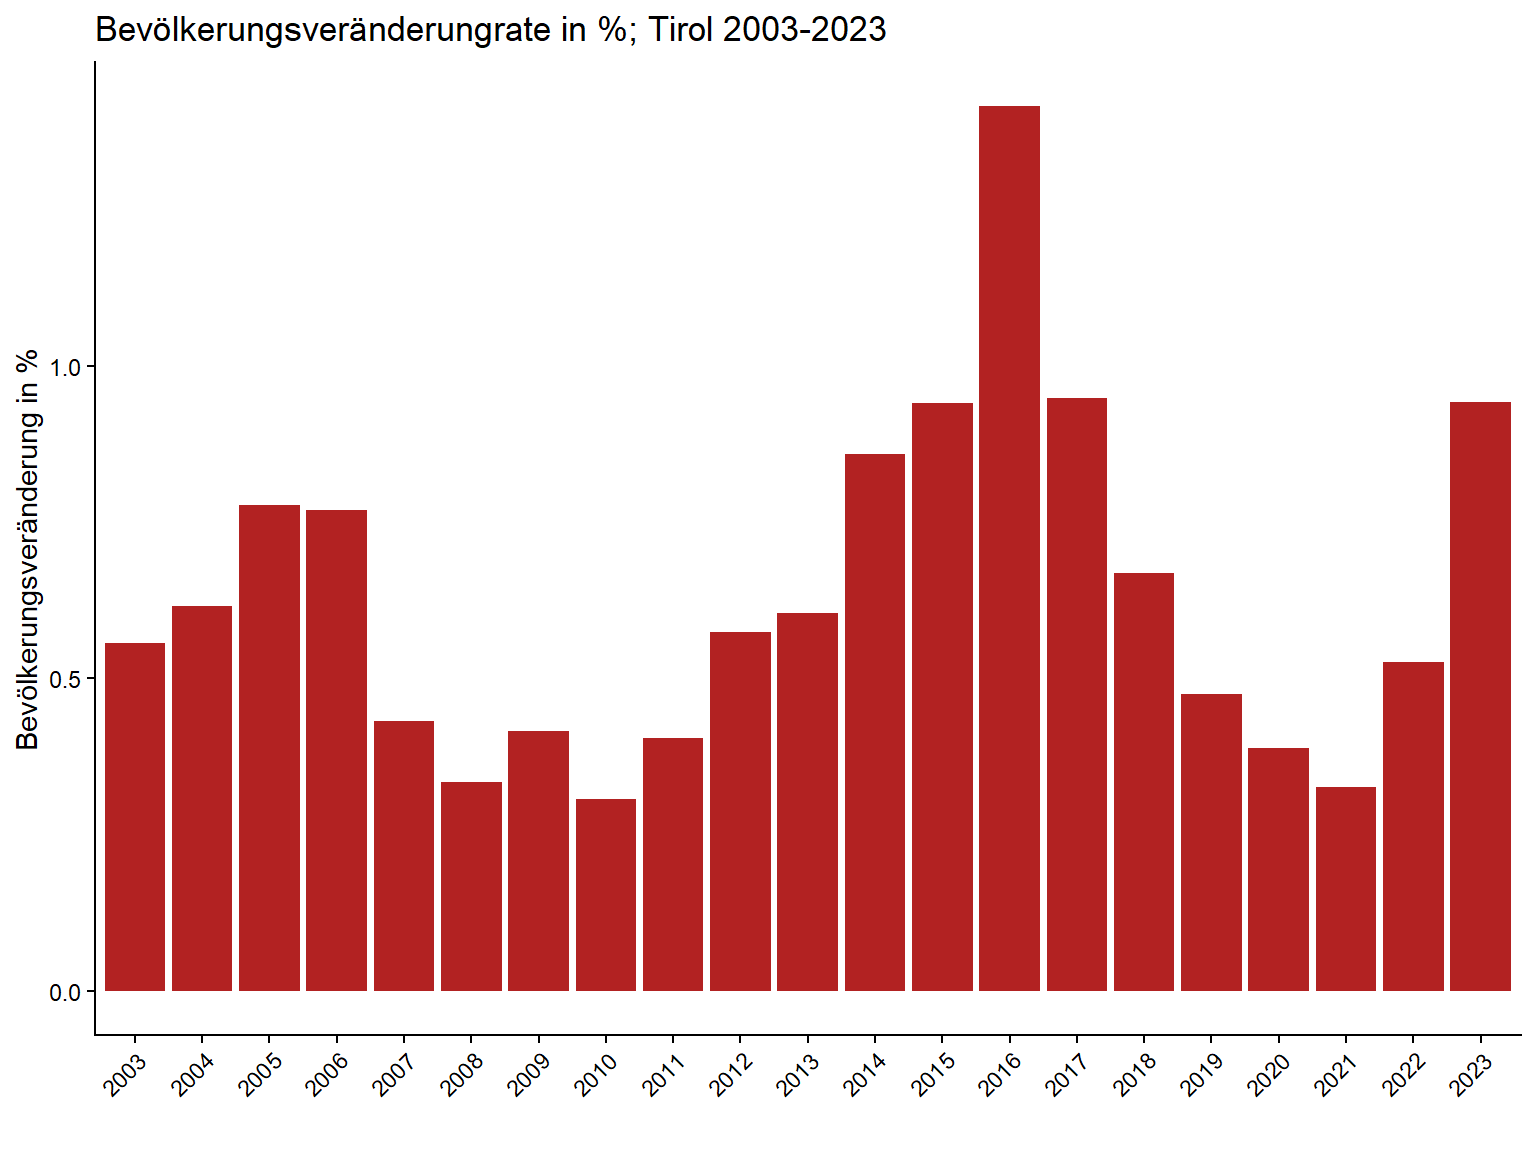
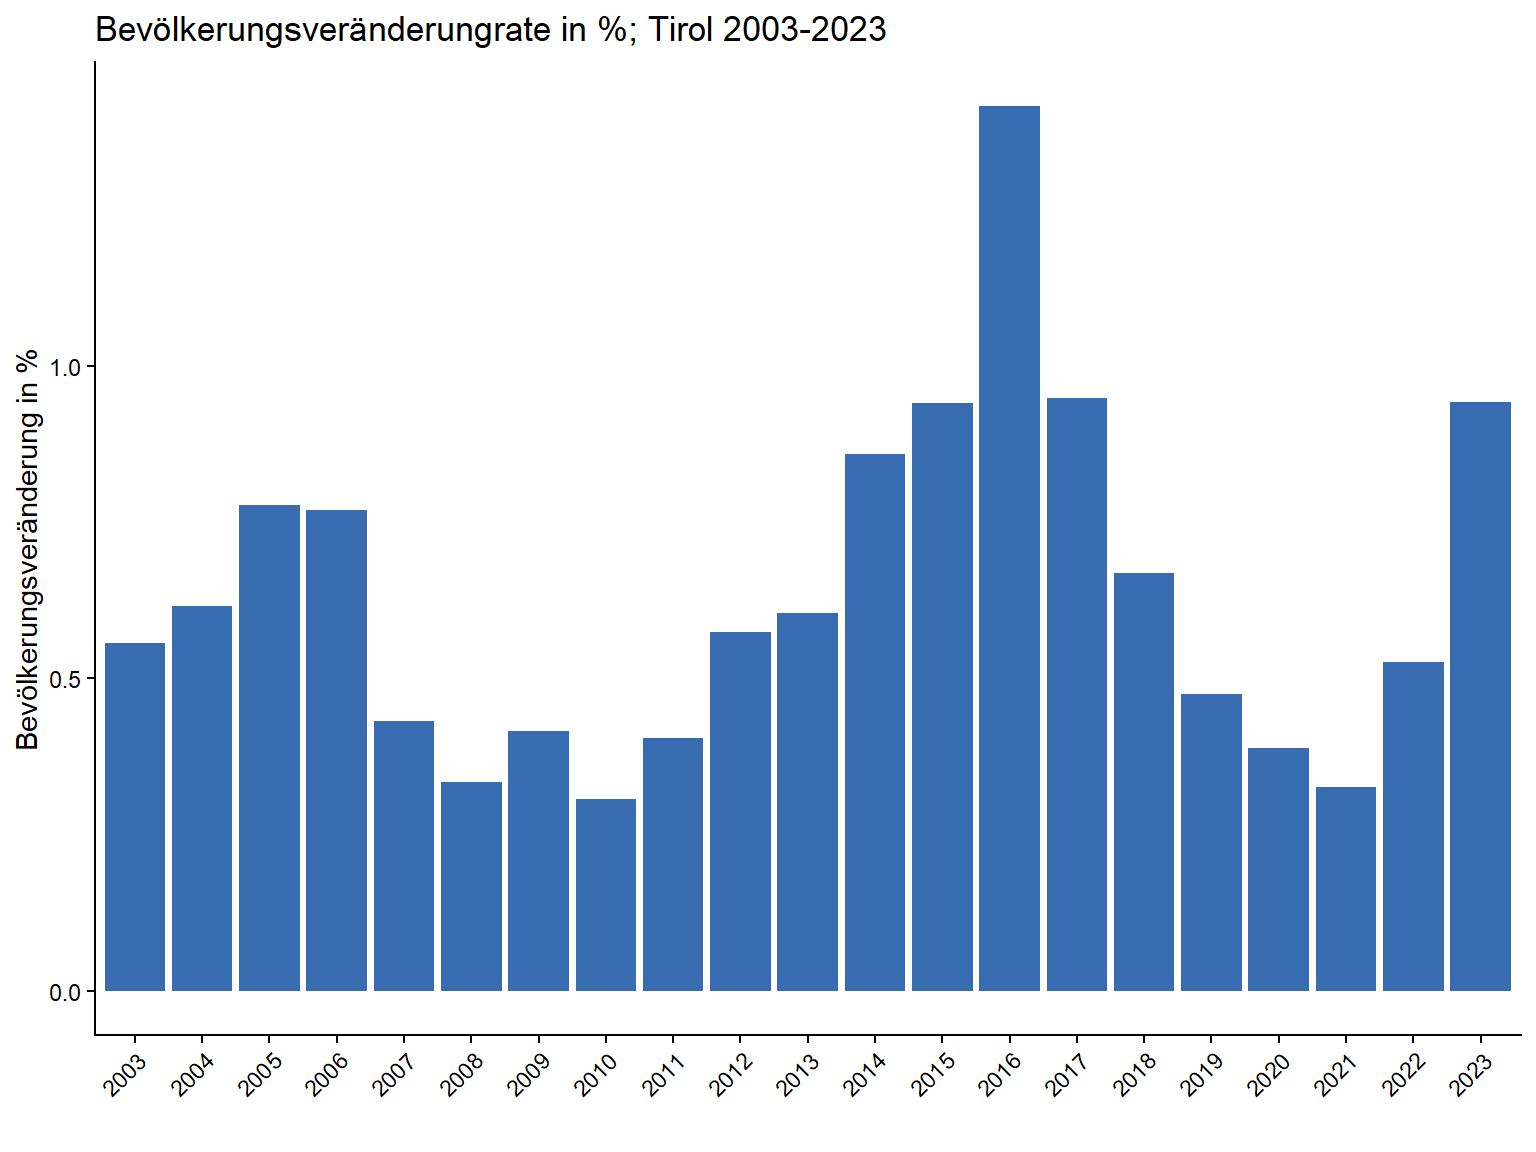
update

Changed region(s): [[0.0625, 0.0938, 1.0, 0.875]]

diff --git a/docs/02_data_manipulation.html b/docs/02_data_manipulation.html
@@ -536,7 +536,7 @@ window.Quarto = {
 </div>
 <div class="code-copy-outer-scaffold"><div class="sourceCode cell-code" id="cb29"><pre class="sourceCode r code-with-copy"><code class="sourceCode r"><span id="cb29-1"><a href="#cb29-1" aria-hidden="true" tabindex="-1"></a><span class="co"># mit "fill" können wir die Farbe der Balken ändern (auch mit Farbcodes möglich!)</span></span>
 <span id="cb29-2"><a href="#cb29-2" aria-hidden="true" tabindex="-1"></a><span class="fu">ggplot</span>(<span class="at">data =</span> pop_tirol, <span class="fu">aes</span>(<span class="at">x =</span> jahr, <span class="at">y =</span> pop_rate))<span class="sc">+</span> </span>
-<span id="cb29-3"><a href="#cb29-3" aria-hidden="true" tabindex="-1"></a>  <span class="fu">geom_col</span>(<span class="at">fill =</span> <span class="st">"dodgerblue"</span>)<span class="sc">+</span></span>
+<span id="cb29-3"><a href="#cb29-3" aria-hidden="true" tabindex="-1"></a>  <span class="fu">geom_col</span>(<span class="at">fill =</span> <span class="st">"#F0027F"</span>)<span class="sc">+</span></span>
 <span id="cb29-4"><a href="#cb29-4" aria-hidden="true" tabindex="-1"></a>  <span class="fu">theme_classic</span>()<span class="sc">+</span></span>
 <span id="cb29-5"><a href="#cb29-5" aria-hidden="true" tabindex="-1"></a>  <span class="fu">labs</span>(<span class="at">x =</span> <span class="st">" "</span>, <span class="at">y =</span> <span class="st">"Bevölkerungsveränderung in %"</span>)</span></code></pre></div><button title="Copy to Clipboard" class="code-copy-button"><i class="bi"></i></button></div>
 <div class="cell-output-display">
@@ -549,7 +549,7 @@ window.Quarto = {
 <div class="code-copy-outer-scaffold"><div class="sourceCode cell-code" id="cb30"><pre class="sourceCode r code-with-copy"><code class="sourceCode r"><span id="cb30-1"><a href="#cb30-1" aria-hidden="true" tabindex="-1"></a><span class="co"># Mittels zb. as.factor() können wir in ggplot den Datentyp angeben, ohne den ursprünglichen Dataframe zu ändern.</span></span>
 <span id="cb30-2"><a href="#cb30-2" aria-hidden="true" tabindex="-1"></a><span class="co"># Mit theme() können wir jedes Element des Diagramms ansteuern und verändern</span></span>
 <span id="cb30-3"><a href="#cb30-3" aria-hidden="true" tabindex="-1"></a><span class="fu">ggplot</span>(<span class="at">data =</span> pop_tirol, <span class="fu">aes</span>(<span class="at">x =</span> <span class="fu">as.factor</span>(jahr), <span class="at">y =</span> pop_rate))<span class="sc">+</span> </span>
-<span id="cb30-4"><a href="#cb30-4" aria-hidden="true" tabindex="-1"></a>  <span class="fu">geom_col</span>(<span class="at">fill =</span> <span class="st">"firebrick"</span>)<span class="sc">+</span></span>
+<span id="cb30-4"><a href="#cb30-4" aria-hidden="true" tabindex="-1"></a>  <span class="fu">geom_col</span>(<span class="at">fill =</span> <span class="st">"#386CB0"</span>)<span class="sc">+</span></span>
 <span id="cb30-5"><a href="#cb30-5" aria-hidden="true" tabindex="-1"></a>  <span class="fu">theme_classic</span>()<span class="sc">+</span></span>
 <span id="cb30-6"><a href="#cb30-6" aria-hidden="true" tabindex="-1"></a>  <span class="fu">theme</span>(<span class="at">axis.text.x =</span> <span class="fu">element_text</span>(<span class="at">angle =</span> <span class="dv">45</span>, <span class="at">hjust =</span> <span class="dv">1</span>))<span class="sc">+</span></span>
 <span id="cb30-7"><a href="#cb30-7" aria-hidden="true" tabindex="-1"></a>  <span class="fu">labs</span>(<span class="at">x =</span> <span class="st">" "</span>, <span class="at">y =</span> <span class="st">"Bevölkerungsveränderung in %"</span>, <span class="at">title =</span> <span class="st">"Bevölkerungsveränderungrate in %; Tirol 2003-2023"</span>)</span></code></pre></div><button title="Copy to Clipboard" class="code-copy-button"><i class="bi"></i></button></div>
@@ -646,10 +646,10 @@ window.Quarto = {
 <span id="cb37-2"><a href="#cb37-2" aria-hidden="true" tabindex="-1"></a>  <span class="fu">geom_line</span>(<span class="at">linewidth =</span> <span class="dv">1</span>)<span class="sc">+</span></span>
 <span id="cb37-3"><a href="#cb37-3" aria-hidden="true" tabindex="-1"></a>  <span class="fu">theme_classic</span>()<span class="sc">+</span></span>
 <span id="cb37-4"><a href="#cb37-4" aria-hidden="true" tabindex="-1"></a>  <span class="fu">scale_color_manual</span>(</span>
-<span id="cb37-5"><a href="#cb37-5" aria-hidden="true" tabindex="-1"></a>  <span class="at">values =</span> <span class="fu">c</span>(<span class="st">"au_rate"</span> <span class="ot">=</span> <span class="st">"dodgerblue"</span>,  </span>
-<span id="cb37-6"><a href="#cb37-6" aria-hidden="true" tabindex="-1"></a>             <span class="st">"bi_rate"</span> <span class="ot">=</span> <span class="st">"firebrick"</span>,   </span>
-<span id="cb37-7"><a href="#cb37-7" aria-hidden="true" tabindex="-1"></a>             <span class="st">"mig_rate"</span> <span class="ot">=</span> <span class="st">"forestgreen"</span>,</span>
-<span id="cb37-8"><a href="#cb37-8" aria-hidden="true" tabindex="-1"></a>             <span class="st">"nat_rate"</span> <span class="ot">=</span> <span class="st">"magenta"</span>),</span>
+<span id="cb37-5"><a href="#cb37-5" aria-hidden="true" tabindex="-1"></a>  <span class="at">values =</span> <span class="fu">c</span>(<span class="st">"au_rate"</span> <span class="ot">=</span> <span class="st">"#386CB0"</span>,  </span>
+<span id="cb37-6"><a href="#cb37-6" aria-hidden="true" tabindex="-1"></a>             <span class="st">"bi_rate"</span> <span class="ot">=</span> <span class="st">"#F0027F"</span>,   </span>
+<span id="cb37-7"><a href="#cb37-7" aria-hidden="true" tabindex="-1"></a>             <span class="st">"mig_rate"</span> <span class="ot">=</span> <span class="st">"#BF5B17"</span>,</span>
+<span id="cb37-8"><a href="#cb37-8" aria-hidden="true" tabindex="-1"></a>             <span class="st">"nat_rate"</span> <span class="ot">=</span> <span class="st">"#7FC97F"</span>),</span>
 <span id="cb37-9"><a href="#cb37-9" aria-hidden="true" tabindex="-1"></a>  <span class="at">labels =</span> <span class="fu">c</span>(<span class="st">"Aussenwanderungsrate"</span>, <span class="st">"Binnenwanderungsrate"</span>, <span class="st">"Gesamtwanderungsrate"</span>, <span class="st">"Natürliche Bevölkerungsveränderung"</span>)</span>
 <span id="cb37-10"><a href="#cb37-10" aria-hidden="true" tabindex="-1"></a>)<span class="sc">+</span></span>
 <span id="cb37-11"><a href="#cb37-11" aria-hidden="true" tabindex="-1"></a>  <span class="fu">geom_hline</span>(<span class="at">yintercept =</span> <span class="dv">0</span>, <span class="at">col =</span> <span class="st">"black"</span>, <span class="at">linetype =</span> <span class="st">"dashed"</span>)<span class="sc">+</span></span>
@@ -666,10 +666,10 @@ window.Quarto = {
 <span id="cb38-2"><a href="#cb38-2" aria-hidden="true" tabindex="-1"></a>  <span class="fu">geom_smooth</span>(<span class="at">linewidth =</span> <span class="dv">1</span>, <span class="at">se=</span> F, <span class="at">span =</span> <span class="fl">0.3</span>)<span class="sc">+</span></span>
 <span id="cb38-3"><a href="#cb38-3" aria-hidden="true" tabindex="-1"></a>  <span class="fu">theme_classic</span>()<span class="sc">+</span></span>
 <span id="cb38-4"><a href="#cb38-4" aria-hidden="true" tabindex="-1"></a>  <span class="fu">scale_color_manual</span>(</span>
-<span id="cb38-5"><a href="#cb38-5" aria-hidden="true" tabindex="-1"></a>  <span class="at">values =</span> <span class="fu">c</span>(<span class="st">"au_rate"</span> <span class="ot">=</span> <span class="st">"dodgerblue"</span>,  </span>
-<span id="cb38-6"><a href="#cb38-6" aria-hidden="true" tabindex="-1"></a>             <span class="st">"bi_rate"</span> <span class="ot">=</span> <span class="st">"firebrick"</span>,   </span>
-<span id="cb38-7"><a href="#cb38-7" aria-hidden="true" tabindex="-1"></a>             <span class="st">"mig_rate"</span> <span class="ot">=</span> <span class="st">"forestgreen"</span>,</span>
-<span id="cb38-8"><a href="#cb38-8" aria-hidden="true" tabindex="-1"></a>             <span class="st">"nat_rate"</span> <span class="ot">=</span> <span class="st">"magenta"</span>),</span>
+<span id="cb38-5"><a href="#cb38-5" aria-hidden="true" tabindex="-1"></a>  <span class="at">values =</span> <span class="fu">c</span>(<span class="st">"au_rate"</span> <span class="ot">=</span> <span class="st">"#386CB0"</span>,  </span>
+<span id="cb38-6"><a href="#cb38-6" aria-hidden="true" tabindex="-1"></a>             <span class="st">"bi_rate"</span> <span class="ot">=</span> <span class="st">"#F0027F"</span>,   </span>
+<span id="cb38-7"><a href="#cb38-7" aria-hidden="true" tabindex="-1"></a>             <span class="st">"mig_rate"</span> <span class="ot">=</span> <span class="st">"#BF5B17"</span>,</span>
+<span id="cb38-8"><a href="#cb38-8" aria-hidden="true" tabindex="-1"></a>             <span class="st">"nat_rate"</span> <span class="ot">=</span> <span class="st">"#7FC97F"</span>),</span>
 <span id="cb38-9"><a href="#cb38-9" aria-hidden="true" tabindex="-1"></a>  <span class="at">labels =</span> <span class="fu">c</span>(<span class="st">"Aussenwanderungsrate"</span>, <span class="st">"Binnenwanderungsrate"</span>, <span class="st">"Gesamtwanderungsrate"</span>, <span class="st">"Natürliche Bevölkerungsveränderung"</span>)</span>
 <span id="cb38-10"><a href="#cb38-10" aria-hidden="true" tabindex="-1"></a>)<span class="sc">+</span></span>
 <span id="cb38-11"><a href="#cb38-11" aria-hidden="true" tabindex="-1"></a>  <span class="fu">geom_hline</span>(<span class="at">yintercept =</span> <span class="dv">0</span>, <span class="at">col =</span> <span class="st">"black"</span>, <span class="at">linetype =</span> <span class="st">"dashed"</span>)<span class="sc">+</span></span>
@@ -686,10 +686,10 @@ window.Quarto = {
 <span id="cb39-2"><a href="#cb39-2" aria-hidden="true" tabindex="-1"></a>  <span class="fu">geom_col</span>()<span class="sc">+</span></span>
 <span id="cb39-3"><a href="#cb39-3" aria-hidden="true" tabindex="-1"></a>  <span class="fu">theme_classic</span>()<span class="sc">+</span></span>
 <span id="cb39-4"><a href="#cb39-4" aria-hidden="true" tabindex="-1"></a>  <span class="fu">scale_fill_manual</span>(</span>
-<span id="cb39-5"><a href="#cb39-5" aria-hidden="true" tabindex="-1"></a>  <span class="at">values =</span> <span class="fu">c</span>(<span class="st">"au_rate"</span> <span class="ot">=</span> <span class="st">"dodgerblue"</span>,  </span>
-<span id="cb39-6"><a href="#cb39-6" aria-hidden="true" tabindex="-1"></a>             <span class="st">"bi_rate"</span> <span class="ot">=</span> <span class="st">"firebrick"</span>,   </span>
-<span id="cb39-7"><a href="#cb39-7" aria-hidden="true" tabindex="-1"></a>             <span class="st">"mig_rate"</span> <span class="ot">=</span> <span class="st">"forestgreen"</span>,</span>
-<span id="cb39-8"><a href="#cb39-8" aria-hidden="true" tabindex="-1"></a>             <span class="st">"nat_rate"</span> <span class="ot">=</span> <span class="st">"magenta"</span>),</span>
+<span id="cb39-5"><a href="#cb39-5" aria-hidden="true" tabindex="-1"></a>  <span class="at">values =</span> <span class="fu">c</span>(<span class="st">"au_rate"</span> <span class="ot">=</span> <span class="st">"#386CB0"</span>,  </span>
+<span id="cb39-6"><a href="#cb39-6" aria-hidden="true" tabindex="-1"></a>             <span class="st">"bi_rate"</span> <span class="ot">=</span> <span class="st">"#F0027F"</span>,   </span>
+<span id="cb39-7"><a href="#cb39-7" aria-hidden="true" tabindex="-1"></a>             <span class="st">"mig_rate"</span> <span class="ot">=</span> <span class="st">"#BF5B17"</span>,</span>
+<span id="cb39-8"><a href="#cb39-8" aria-hidden="true" tabindex="-1"></a>             <span class="st">"nat_rate"</span> <span class="ot">=</span> <span class="st">"#7FC97F"</span>),</span>
 <span id="cb39-9"><a href="#cb39-9" aria-hidden="true" tabindex="-1"></a>  <span class="at">labels =</span> <span class="fu">c</span>(<span class="st">"Aussenwanderungsrate"</span>, <span class="st">"Binnenwanderungsrate"</span>, <span class="st">"Gesamtwanderungsrate"</span>, <span class="st">"Natürliche Bevölkerungsveränderung"</span>)</span>
 <span id="cb39-10"><a href="#cb39-10" aria-hidden="true" tabindex="-1"></a>)<span class="sc">+</span></span>
 <span id="cb39-11"><a href="#cb39-11" aria-hidden="true" tabindex="-1"></a>  <span class="fu">geom_hline</span>(<span class="at">yintercept =</span> <span class="dv">0</span>, <span class="at">col =</span> <span class="st">"black"</span>, <span class="at">linetype =</span> <span class="st">"dashed"</span>)<span class="sc">+</span></span>
@@ -706,10 +706,10 @@ window.Quarto = {
 <span id="cb40-2"><a href="#cb40-2" aria-hidden="true" tabindex="-1"></a>  <span class="fu">geom_col</span>(<span class="at">position =</span> <span class="st">"dodge"</span>)<span class="sc">+</span></span>
 <span id="cb40-3"><a href="#cb40-3" aria-hidden="true" tabindex="-1"></a>  <span class="fu">theme_classic</span>()<span class="sc">+</span></span>
 <span id="cb40-4"><a href="#cb40-4" aria-hidden="true" tabindex="-1"></a>  <span class="fu">scale_fill_manual</span>(</span>
-<span id="cb40-5"><a href="#cb40-5" aria-hidden="true" tabindex="-1"></a>  <span class="at">values =</span> <span class="fu">c</span>(<span class="st">"au_rate"</span> <span class="ot">=</span> <span class="st">"dodgerblue"</span>,  </span>
-<span id="cb40-6"><a href="#cb40-6" aria-hidden="true" tabindex="-1"></a>             <span class="st">"bi_rate"</span> <span class="ot">=</span> <span class="st">"firebrick"</span>,   </span>
-<span id="cb40-7"><a href="#cb40-7" aria-hidden="true" tabindex="-1"></a>             <span class="st">"mig_rate"</span> <span class="ot">=</span> <span class="st">"forestgreen"</span>,</span>
-<span id="cb40-8"><a href="#cb40-8" aria-hidden="true" tabindex="-1"></a>             <span class="st">"nat_rate"</span> <span class="ot">=</span> <span class="st">"magenta"</span>),</span>
+<span id="cb40-5"><a href="#cb40-5" aria-hidden="true" tabindex="-1"></a>  <span class="at">values =</span> <span class="fu">c</span>(<span class="st">"au_rate"</span> <span class="ot">=</span> <span class="st">"#386CB0"</span>,  </span>
+<span id="cb40-6"><a href="#cb40-6" aria-hidden="true" tabindex="-1"></a>             <span class="st">"bi_rate"</span> <span class="ot">=</span> <span class="st">"#F0027F"</span>,   </span>
+<span id="cb40-7"><a href="#cb40-7" aria-hidden="true" tabindex="-1"></a>             <span class="st">"mig_rate"</span> <span class="ot">=</span> <span class="st">"#BF5B17"</span>,</span>
+<span id="cb40-8"><a href="#cb40-8" aria-hidden="true" tabindex="-1"></a>             <span class="st">"nat_rate"</span> <span class="ot">=</span> <span class="st">"#7FC97F"</span>),</span>
 <span id="cb40-9"><a href="#cb40-9" aria-hidden="true" tabindex="-1"></a>  <span class="at">labels =</span> <span class="fu">c</span>(<span class="st">"Aussenwanderungsrate"</span>, <span class="st">"Binnenwanderungsrate"</span>, <span class="st">"Gesamtwanderungsrate"</span>, <span class="st">"Natürliche Bevölkerungsveränderung"</span>)</span>
 <span id="cb40-10"><a href="#cb40-10" aria-hidden="true" tabindex="-1"></a>)<span class="sc">+</span></span>
 <span id="cb40-11"><a href="#cb40-11" aria-hidden="true" tabindex="-1"></a>  <span class="fu">geom_hline</span>(<span class="at">yintercept =</span> <span class="dv">0</span>, <span class="at">col =</span> <span class="st">"black"</span>, <span class="at">linetype =</span> <span class="st">"dashed"</span>)<span class="sc">+</span></span>
@@ -730,15 +730,15 @@ window.Quarto = {
 <span id="cb41-3"><a href="#cb41-3" aria-hidden="true" tabindex="-1"></a>  <span class="fu">geom_line</span>()<span class="sc">+</span></span>
 <span id="cb41-4"><a href="#cb41-4" aria-hidden="true" tabindex="-1"></a>  <span class="co">#theme_classic()+</span></span>
 <span id="cb41-5"><a href="#cb41-5" aria-hidden="true" tabindex="-1"></a>  <span class="fu">scale_color_manual</span>(</span>
-<span id="cb41-6"><a href="#cb41-6" aria-hidden="true" tabindex="-1"></a>    <span class="at">values =</span> <span class="fu">c</span>(<span class="st">"au_rate"</span> <span class="ot">=</span> <span class="st">"dodgerblue"</span>,  </span>
-<span id="cb41-7"><a href="#cb41-7" aria-hidden="true" tabindex="-1"></a>               <span class="st">"bi_rate"</span> <span class="ot">=</span> <span class="st">"firebrick"</span>,</span>
-<span id="cb41-8"><a href="#cb41-8" aria-hidden="true" tabindex="-1"></a>               <span class="st">"nat_rate"</span> <span class="ot">=</span> <span class="st">"magenta"</span>),</span>
+<span id="cb41-6"><a href="#cb41-6" aria-hidden="true" tabindex="-1"></a>    <span class="at">values =</span> <span class="fu">c</span>(<span class="st">"au_rate"</span> <span class="ot">=</span> <span class="st">"#386CB0"</span>,  </span>
+<span id="cb41-7"><a href="#cb41-7" aria-hidden="true" tabindex="-1"></a>               <span class="st">"bi_rate"</span> <span class="ot">=</span> <span class="st">"#F0027F"</span>,</span>
+<span id="cb41-8"><a href="#cb41-8" aria-hidden="true" tabindex="-1"></a>               <span class="st">"nat_rate"</span> <span class="ot">=</span> <span class="st">"#7FC97F"</span>),</span>
 <span id="cb41-9"><a href="#cb41-9" aria-hidden="true" tabindex="-1"></a>    <span class="at">labels =</span> <span class="fu">c</span>(<span class="st">"Aussenwanderungsrate"</span>, <span class="st">"Binnenwanderungsrate"</span>, <span class="st">"Natürliche Bevölkerungsveränderung"</span>)</span>
 <span id="cb41-10"><a href="#cb41-10" aria-hidden="true" tabindex="-1"></a>  )<span class="sc">+</span></span>
 <span id="cb41-11"><a href="#cb41-11" aria-hidden="true" tabindex="-1"></a>  <span class="fu">facet_wrap</span>(bld<span class="sc">~</span>.)<span class="sc">+</span></span>
 <span id="cb41-12"><a href="#cb41-12" aria-hidden="true" tabindex="-1"></a>  <span class="fu">geom_hline</span>(<span class="at">yintercept =</span> <span class="dv">0</span>, <span class="at">col =</span> <span class="st">"black"</span>, <span class="at">linetype =</span> <span class="st">"dashed"</span>)<span class="sc">+</span></span>
 <span id="cb41-13"><a href="#cb41-13" aria-hidden="true" tabindex="-1"></a>  <span class="fu">labs</span>(<span class="at">y =</span> <span class="st">"Rate pro 1000 EW"</span>, <span class="at">x =</span> <span class="st">" "</span>, <span class="at">color =</span> <span class="st">" "</span>,</span>
-<span id="cb41-14"><a href="#cb41-14" aria-hidden="true" tabindex="-1"></a>       <span class="at">title =</span> <span class="st">"Migrationsstatistik Österreichischer Bundesländer, 2003-2023"</span>,</span>
+<span id="cb41-14"><a href="#cb41-14" aria-hidden="true" tabindex="-1"></a>       <span class="at">title =</span> <span class="st">"Komponenten der Bevölkerungsentwicklung Österreichischer Bundesländer, 2002-2023"</span>,</span>
 <span id="cb41-15"><a href="#cb41-15" aria-hidden="true" tabindex="-1"></a>       <span class="at">caption =</span> <span class="st">"Quelle: Statistik Austria;</span><span class="sc">\n</span><span class="st"> Anm: Natürliche Bevölkerungsveränderung ohne statistische Korrektur"</span>)<span class="sc">+</span></span>
 <span id="cb41-16"><a href="#cb41-16" aria-hidden="true" tabindex="-1"></a>    <span class="fu">theme_bw</span>()<span class="sc">+</span></span>
 <span id="cb41-17"><a href="#cb41-17" aria-hidden="true" tabindex="-1"></a>  <span class="fu">theme</span>(<span class="at">axis.text.x =</span> <span class="fu">element_text</span>(<span class="at">angle =</span> <span class="dv">45</span>, <span class="at">hjust =</span> <span class="dv">1</span>),</span>
